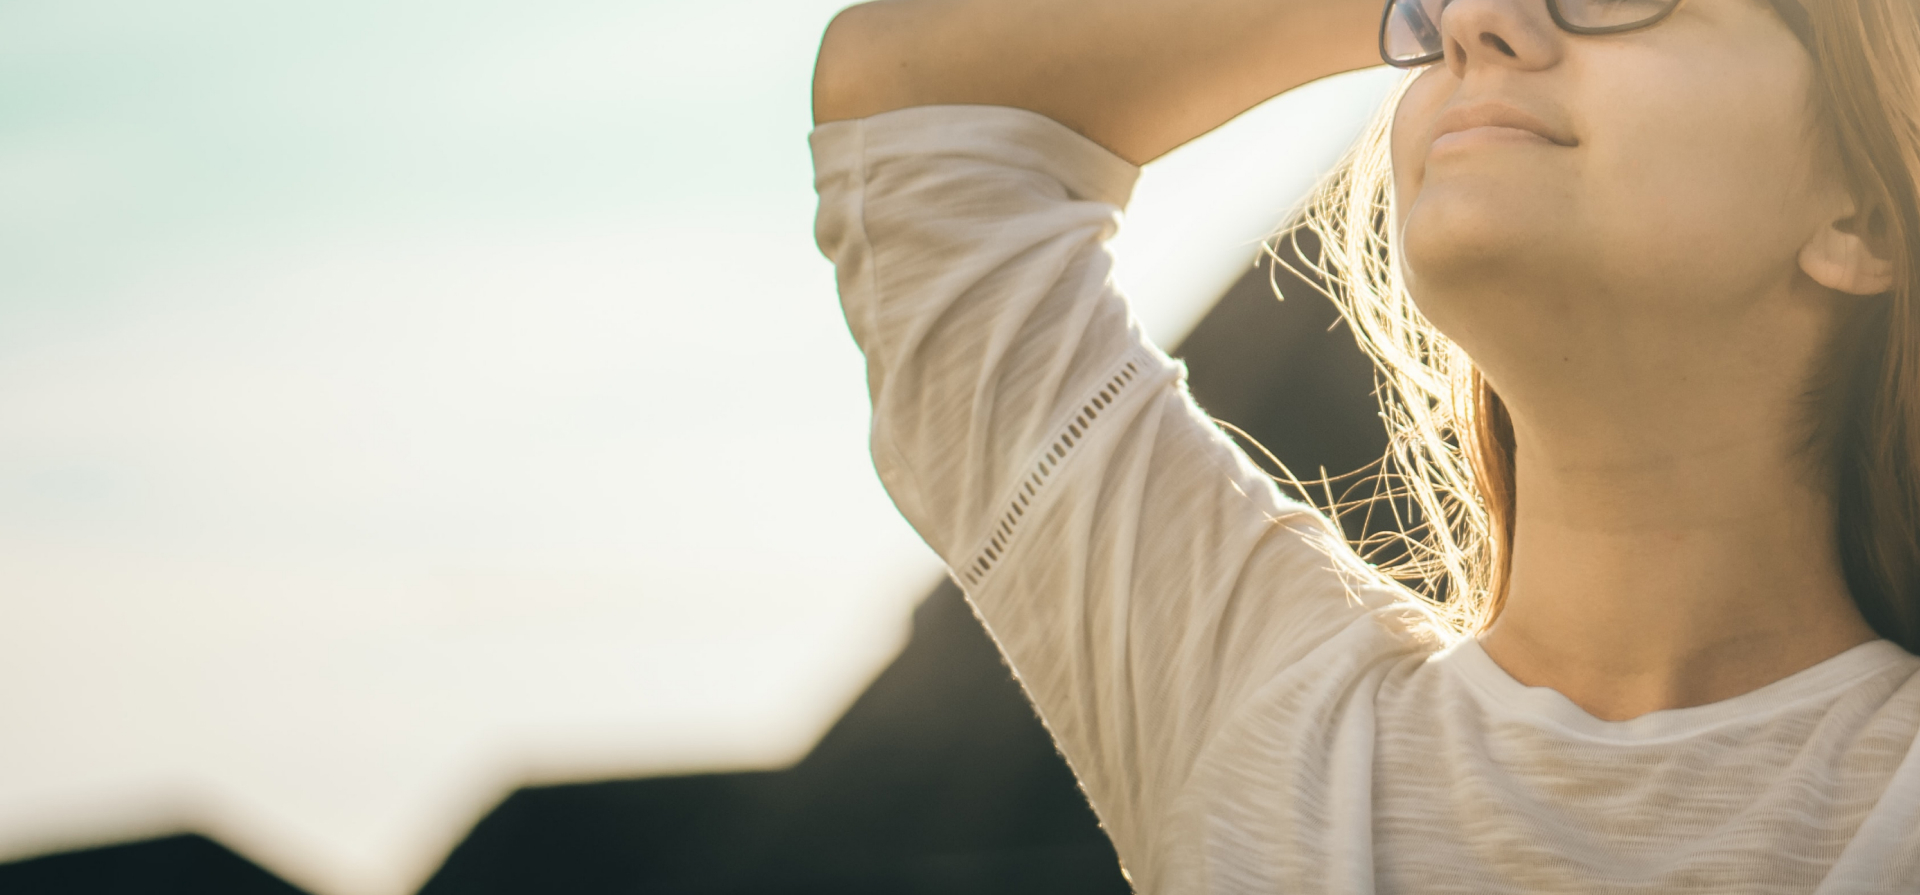
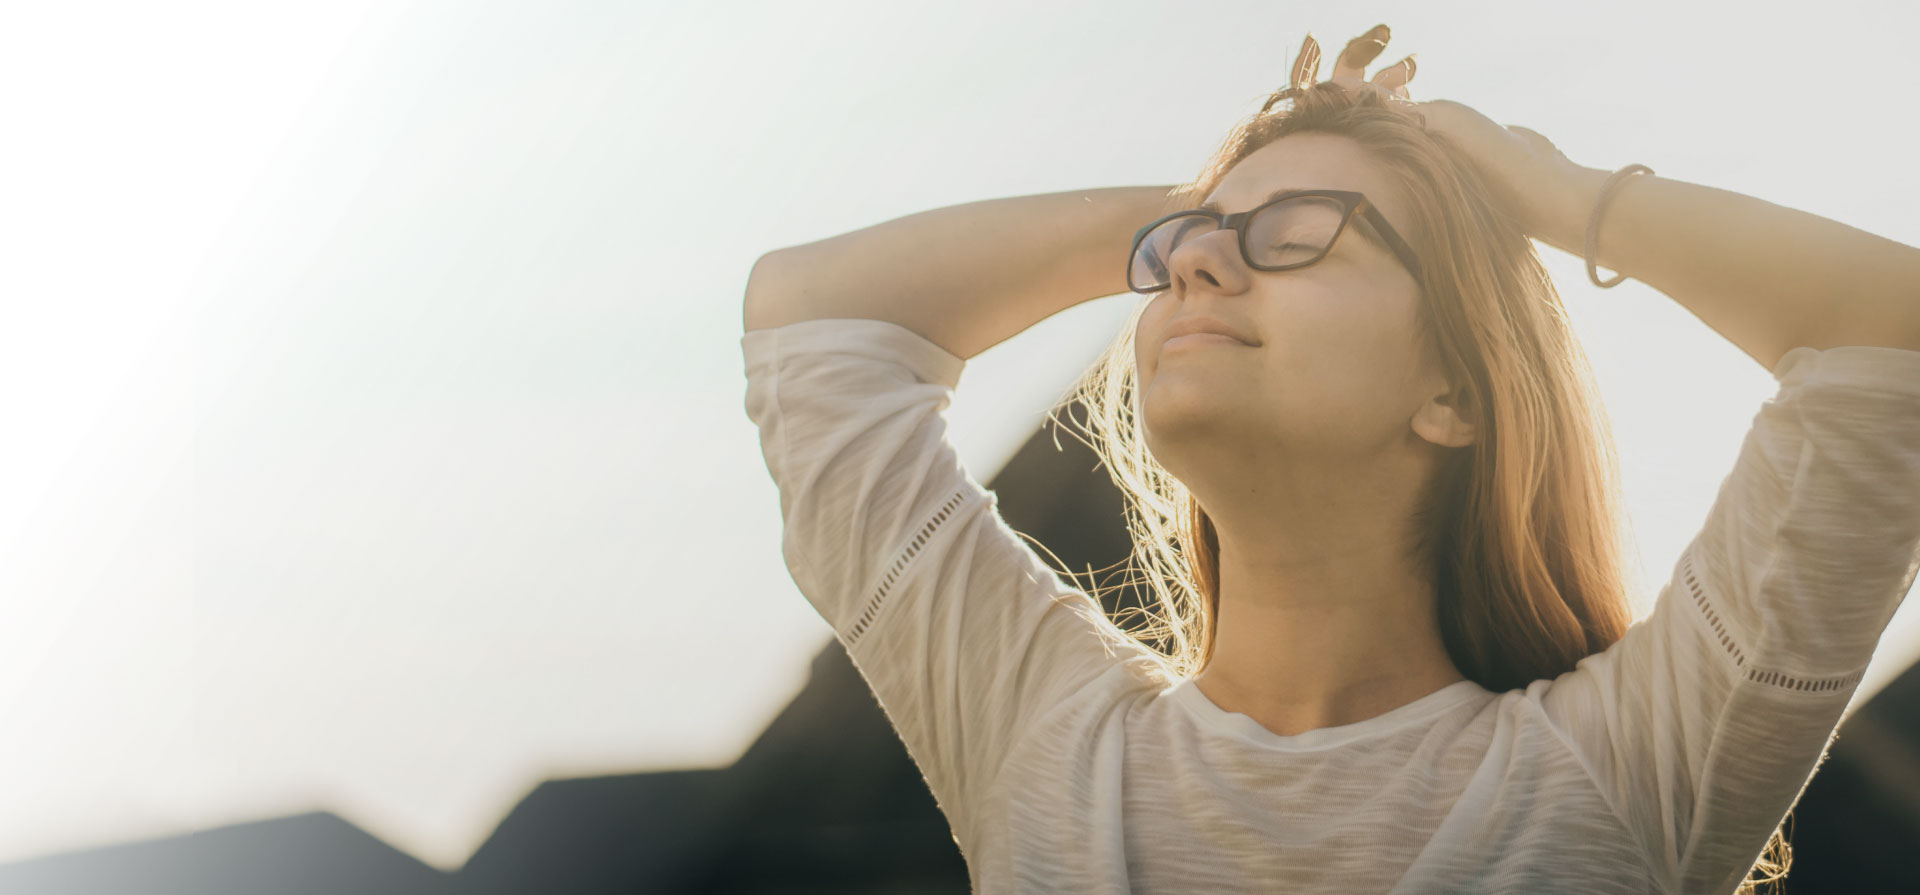
new2

diff --git a/css/main.css b/css/main.css
@@ -1,6 +1,3 @@
-<link rel="preconnect" href="https://fonts.googleapis.com">
-<link rel="preconnect" href="https://fonts.gstatic.com" crossorigin>
-<link href="https://fonts.googleapis.com/css2?family=Lato:ital,wght@0,100;0,300;0,400;0,700;0,900;1,100;1,300;1,400;1,700;1,900&display=swap" rel="stylesheet">
 html {
     box-sizing: border-box;
 }
@@ -9,24 +6,195 @@ html {
 }
 body {
     margin: 0;
-    font-family: Lato, sans-serif;
+    font-family: 'Lato', sans-serif;
     font-weight: 400;
-    font-size: 16px;
+    font-size: 20px;
+    color: #424242;
 }
 .container {
     max-width: 1370px;
     width: 100%;
+    margin: 0 auto;
+}
+button {
+    font-family: 'Lato', sans-serif;
+    background: #01996d;
+    border: 0;
+    border-radius: 4px;
+    padding: 13px 48px;    
+    letter-spacing: -0.02em;
+    width: 184px;
+    height: 51px;
+    font-size: 20px;
+    text-align: center;
+    color: #fff;
+    margin-top: 7px;
 }
 .header {
 }
 .header_top {
-    height: 85px;
+    height: 86px;
+    display: flex;
+    justify-content: space-between;
+    align-items: center;
+}
+.header_top img {
+    align-self: center;
 }
 .nav {
+    margin-right: 153px;
+}
+.nav ul {
+    display: flex;
+    list-style: none;
+    gap: 72px;
+    font-weight: 500;
+}
+.nav ul a {
+    text-decoration: none;
 }
 .userblock {
+    display: flex;
+    gap: 37px;
 }
-.headerarea {
+#main {
+    min-height: 895px;
+    background: url(../img/header-img.jpg);
+    background-size: contain;
+    background-repeat: no-repeat;
+    background-position: top right;
 }
-.description {
+#main .description {
+    max-width: 440px;
+    padding-top: 175px;
 }
+h1 {
+    font-family: Georgia, serif;
+    font-weight: 700;
+    font-size: 65px;
+    color: #01996d;
+    margin-top: 0;
+    margin-bottom: 31px;
+}
+#main .description p {
+    max-width: 420px;
+    line-height: 1.45;
+    margin-bottom: 46px;
+    letter-spacing: 0.1px;
+    color: #484848;
+}
+#main .description button {
+    width: 227px;
+    height: 65px;
+    font-family: 'Lato', sans-serif;
+}
+#steps {
+
+}
+#steps .container {
+    max-width: 1371px;
+    /* padding: 0 20px; */
+    padding-top: 173px;
+}
+.howitworks .description {
+    display: flex;
+    justify-content: space-between;
+    margin-top: 3px;
+}
+#steps .howitworks .subtitle {
+    font-weight: 600;
+    font-size: 24px;
+    margin-top: 0;
+    margin-bottom: 0;
+}
+h2 {
+    font-family: Georgia, serif;
+    font-weight: 700;
+    font-size: 50px;
+    line-height: 1.57;
+    color: #01996d;
+    margin-top: 0;
+    max-width: 571px;
+}
+#steps .howitworks .text {
+    font-weight: 500;
+    line-height: 1.54;    
+    max-width: 651px;
+    width: 100%;
+    letter-spacing: 0.2px;
+}
+#steps .howtosteps {
+    display: flex;
+    justify-content: start;
+    margin-top: 115px;
+    gap: 95px;
+}
+#steps .steps {
+    max-width: 392px;
+    position: relative;
+}
+#steps .steps:nth-child(1) {
+}
+#steps .steps:nth-child(2) {
+    margin-top: 287px;
+}
+#steps .steps:nth-child(3) {
+    margin-top: 55px;
+}
+#steps h3 {
+    font-family: Georgia, serif;
+    font-weight: 700;
+    font-size: 30px;
+    line-height: 1.54;  
+    color: #000;
+}
+#steps .steps:nth-child(1) h3 {
+    margin-left: 88px;
+}
+#steps .steps:nth-child(2) h3 {
+    margin-left: 79px;
+}
+#steps .steps:nth-child(3) h3 {
+    margin-left: 123px;
+}
+#steps .steps h3::before {
+    content: "";
+    position: absolute;
+    font-family: Georgia, serif;
+    font-weight: 400;
+    font-size: 150px;
+    line-height: 1.5;
+    color: rgba(1, 153, 109, 0.2);
+    top: -106px;
+}
+#steps .steps:nth-child(1) h3::before {
+    content: "01";
+    left: 0;
+}
+#steps .steps:nth-child(2) h3::before {
+    content: "02";
+    left: -5px;
+}
+#steps .steps:nth-child(3) h3::before {
+    content: "03";
+    left: 0;
+}
+#steps .steps p {
+    margin-top: 56px;
+    margin-bottom: 60px;
+    line-height: 1.47;
+    letter-spacing: 0.2px;
+}
+#steps .steps:nth-child(1) p {
+    margin-bottom: 60px;
+}
+#steps .steps:nth-child(2) p {
+    margin-bottom: 36px;
+}
+#steps .steps:nth-child(3) p {
+    margin-top: 46px;
+    margin-bottom: 47px;
+}
+
+
+

diff --git a/index.html b/index.html
@@ -4,31 +4,68 @@
     <meta charset="UTF-8">
     <meta name="viewport" content="width=device-width, initial-scale=1.0">
     <title>Alivio site</title>
+    <link rel="preconnect" href="https://fonts.googleapis.com">
+    <link rel="preconnect" href="https://fonts.gstatic.com" crossorigin>
+    <link href="https://fonts.googleapis.com/css2?family=Lato:ital,wght@0,100;0,300;0,400;0,700;0,900;1,100;1,300;1,400;1,700;1,900&display=swap" rel="stylesheet">
+    <link rel="stylesheet" href="css/main.css">
 </head>
 <body>
     <header class="header">
-        <div class="header_top">
-            <img src="" alt="Alivio">
-            <div class="nav">
-                <ul>
-                    <li><a href="#">Why Alivio</a></li>
-                    <li><a href="#">Solutions</a></li>
-                    <li><a href="#">Community</a></li>
-                    <li><a href="#">Pricing</a></li>
-                </ul>
-            </div>
-            <div class="userblock">
-                <p>Sign in</p>
-                <button>Start Trial</button>
-            </div>
-        </div>
         <div class="container">
-            <div class="headerarea">
-                <h1>Be aware, Manage well.</h1>
-                <div class="description">Everyone experiences stress in different ways. Let Alivio guide you, in a personalized journal experience, to overcome your stress.</div>
-                <button>Find Your Way</button>
+            <div class="header_top">
+                <img src="img/logo.png" alt="Alivio">
+                <div class="nav">
+                    <ul>
+                        <li><a href="#">Why Alivio</a></li>
+                        <li><a href="#">Solutions</a></li>
+                        <li><a href="#">Community</a></li>
+                        <li><a href="#">Pricing</a></li>
+                    </ul>
+                </div>
+                <div class="userblock">
+                    <p>Sign in</p>
+                    <button>Start Trial</button>
+                </div>
             </div>
         </div>
     </header>
+        <section id="main">
+        <div class="container">
+            <div class="description">
+                <h1>Be aware, Manage well.</h1>
+                <p>Everyone experiences stress in different ways. Let Alivio guide you, in a personalized journal experience, to overcome your stress.</p>
+                <button>Find Your Way</button>
+            </div>
+        </div>
+    </section>    
+    <section id="steps">
+        <div class="container">
+            <div class="howitworks">
+                <p class="subtitle">How it works</p>
+                <div class="description">
+                    <h2>Understand & Release the stress in 3 steps</h2>
+                    <p class="text">Alivio offers as many journals it takes, tackling different areas such as anxiety, overwhelmedness, sadness, or anger, and a variety of personal causes, to help you become aware of your emotions, and guide you in how to manage stress.</p>
+                </div>
+            </div>
+            <div class="howtosteps">
+                <div class="steps">
+                    <h3>Personalize</h3>
+                    <p>Answer a quick survey about how you express yourself, what causes you stress, and what area would you like to work on. This way, we can fully personalize your journal!</p>
+                    <img src="img/section-2-img-1.jpg" alt="">
+                </div>
+                <div class="steps">
+                    <h3>Write & Understand</h3>
+                    <p>Write, draw, reflect, understand. Alivio will guide you through the prompts and will help you manage your stress!</p>
+                    <img src="img/section-2-img-2.jpg" alt="">
+                </div>
+                <div class="steps">
+                    <h3>Alivio!</h3>
+                    <p>Now you are aware, and have a way to manage and overcome your own stress. What are you waiting for? Alivio today!</p>
+                    <img src="img/section-2-img-3.jpg" alt="">
+                </div>
+            </div>
+        </div>
+    </section>
+
 </body>
 </html>
